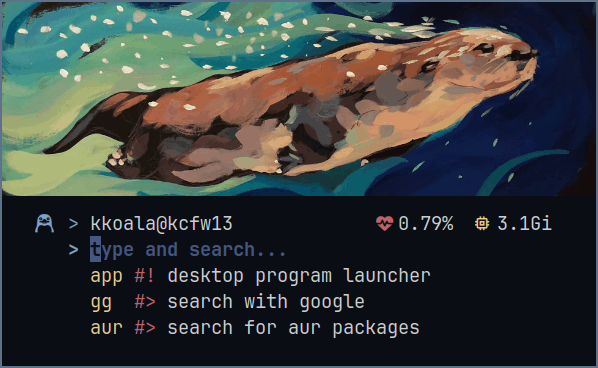
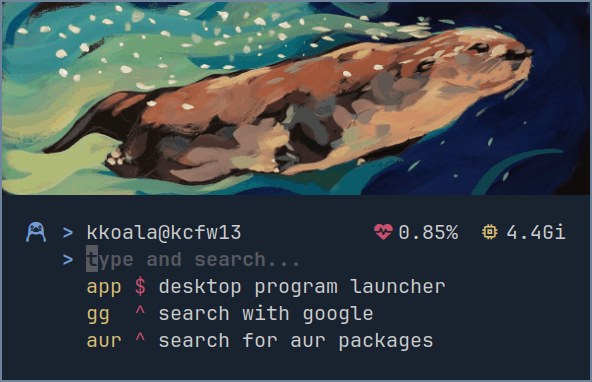
add helper script

diff --git a/README.md b/README.md
@@ -1,6 +1,6 @@
 # otter-launcher
 
-![Chafa-text Config](./assets/chafa-text.png)
+![Prinny Config](./assets/prinny.png)
 
 A very hackable app launcher, designed for keyboard-centric wm users. It is blazingly fast, supports vi and emacs keybinds, and can be decorated with ascii color codes, sixel or kitty image protocols. Plus, through bash scripting, system info widgets can be added to the infinity.
 
@@ -34,8 +34,6 @@ Some helper scripts can be found in the [contrib](https://github.com/kuokuo123/o
 - minimalist, blazingly fast, keyboard-centric
 
 # Installation
-
-![Prinny Config](./assets/prinny.png)
 
 ## Building from source
 
@@ -173,16 +171,16 @@ place_holder_color = "\u001B[30m"
 
 ```
 [interface]
-header_cmd = "fastfetch --structure break:colors:break:os:wm:kernel:uptime:packages:memory:datetime:break --key-type icon --logo-type data --logo \"$(krabby name quilava --no-title)\""
+header_cmd = "fastfetch --structure break:break:colors:break:os:shell:wm:kernel:uptime:break --key-type icon --logo-type data --logo \"$(krabby name quilava --no-title)\""
 header_cmd_trimmed_lines = 1
-header = " \u001B[34m \u001B[0m otter-launcher \u001B[34m>\u001B[0m "
-list_prefix = "    "
-place_holder = "type and search..."
+header = "  \u001B[31m\u001B[0m  search \u001B[31m>\u001B[0m "
+list_prefix = "     "
+place_holder = "type the keyword"
 suggestion_mode = "list"
 suggestion_lines = 1
 indicator_with_arg_module = ""
 indicator_no_arg_module = ""
-prefix_color = "\u001B[32m"
+prefix_color = "\u001B[33m"
 description_color = "\u001B[38m"
 place_holder_color = "\u001B[30m"
 ```
@@ -195,24 +193,27 @@ place_holder_color = "\u001B[30m"
 
 ```
 [interface]
-header_cmd = "chafa --fit-width $HOME/.config/otter-launcher/waterways_and_otterways.jpg; echo -e \"   \u001B[34m  >\u001B[0m $USER@$HOSTNAME              \u001B[31m\u001B[0m $(mpstat | awk 'FNR ==4 {print $4}')%  \u001B[33m\u001B[0m $(free -h | awk 'FNR == 2 {print $3}')\""
+header_cmd = """
+chafa --fit-width $HOME/.config/otter-launcher/waterways_and_otterways.jpg;
+echo -e "   \u001B[34m  >\u001B[0m $USER@$HOSTNAME         \u001B[31m\u001B[0m $(mpstat | awk 'FNR ==4 {print $4}')%  \u001B[33m\u001B[0m $(free -h | awk 'FNR == 2 {print $3}')"
+"""
 header_cmd_trimmed_lines = 0
 header = """      \u001B[34;1m>\u001B[0;1m """
 list_prefix = "        "
 place_holder = "type and search..."
-indicator_with_arg_module = "\u001B[31m#>\u001B[0m "
-indicator_no_arg_module = "\u001B[31m#!\u001B[0m "
+indicator_with_arg_module = "\u001B[31m^\u001B[0m "
+indicator_no_arg_module = "\u001B[31m$\u001B[0m "
 default_module_message = """
-        \u001B[35msearch\u001B[0m on the internet"""
+        \u001B[35msearch\u001B[0m the internet"""
 suggestion_mode = "list"
 suggestion_lines = 3
 prefix_padding = 3
+prefix_color = "\u001B[33m"
 description_color = "\u001B[38m"
 place_holder_color = "\u001B[90m"
-hint_color = "\u001B[90m"
 ```
 
-## Chafa Image to the Left
+## Image to the Left
 
 ![Chafa-text Config](./assets/chafa-text.png)
 
@@ -235,6 +236,32 @@ prefix_color = "\u001B[33m"
 description_color = "\u001B[38m"
 place_holder_color = "\u001B[90m"
 hint_color = "\u001B[90m"
+```
+
+## Image to the Right
+
+![Prinny Config](./assets/prinny.png)
+
+This config uses [chafa-penguin.sh](https://github.com/kuokuo123/otter-launcher/tree/main/contrib/chafa-text.sh) to render a [prinny](https://github.com/kuokuo123/otter-launcher/tree/main/assets/prinny-raisehand.png).
+
+```
+[interface]
+header_cmd = """
+$HOME/.config/otter-launcher/scripts/chafa-penguin.sh;
+"""
+header = "    │ \u001B[90m\u001B[0m  "
+indicator_with_arg_module = ""
+indicator_no_arg_module = ""
+place_holder = "type & search"
+suggestion_mode = "list"
+suggestion_lines = 1
+list_prefix = "    └ \u001B[34m  "
+prefix_padding = 0
+default_module_message = "    └ \u001B[34m  \u001B[33msearch\u001B[0m the internet"
+prefix_color = "\u001B[33m"
+description_color = "\u001B[38m"
+place_holder_color = "\u001B[90m"
+
 ```
 
 # Integration
